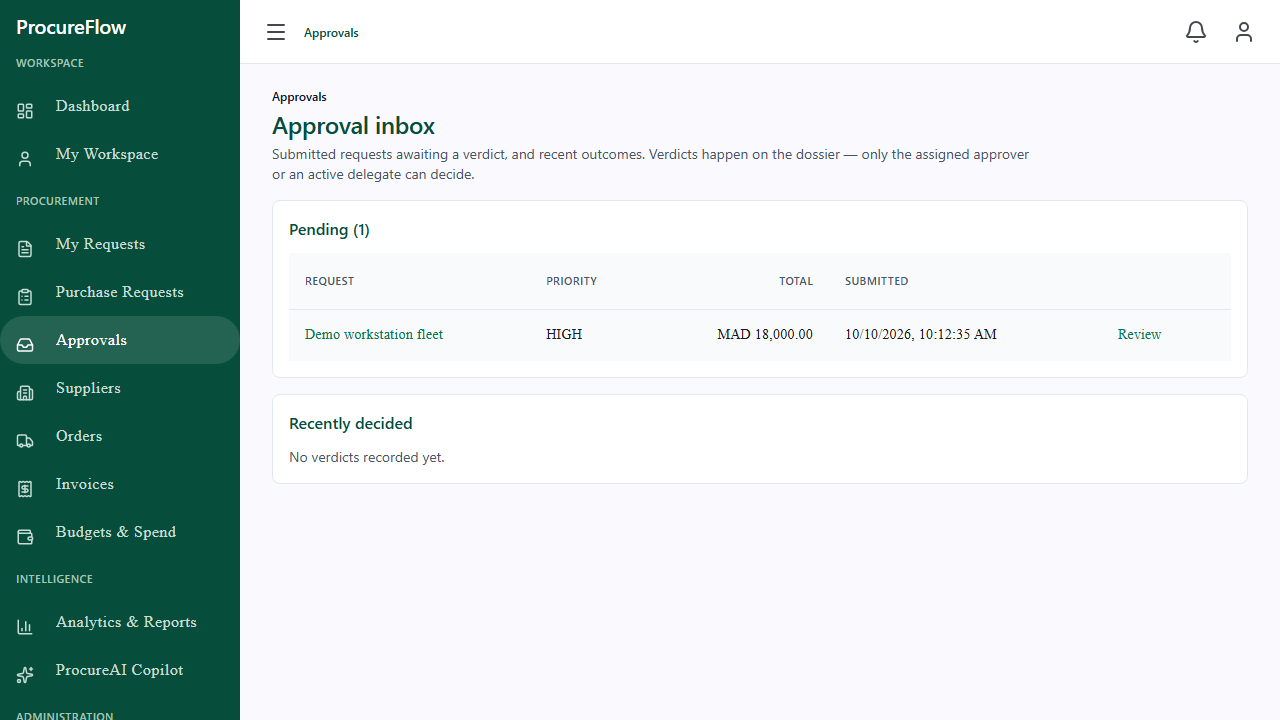
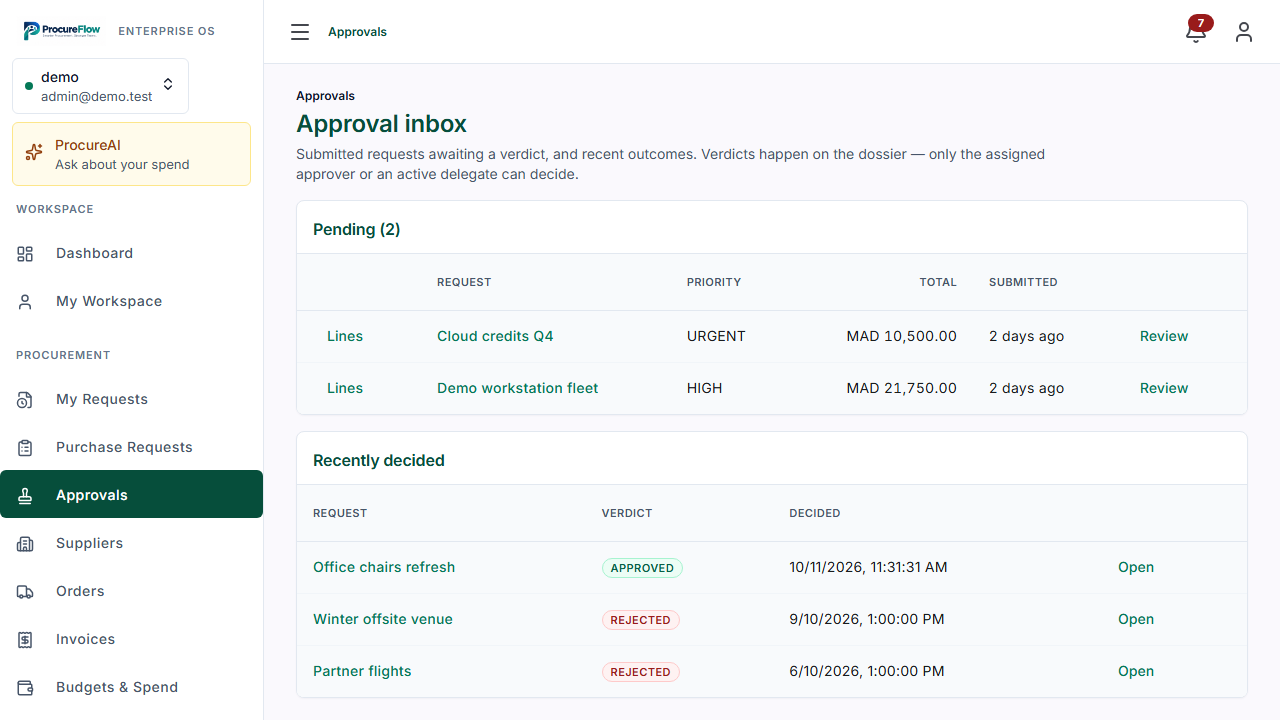
docs(demo): walkthrough gallery plus refreshed backbone screens
demo.md gains a 4-shot live gallery (login brand + dashboard/approvals/analytics with the new rail, captured against the compose demo seed). README screens table and Vitest/e2e counts synced.

diff --git a/README.md b/README.md
@@ -50,6 +50,7 @@ for the permission matrix):
 | Users & roles administration | ![users](docs/screens/07-users.png) |
 | Approval lanes, steps and delegations | ![workflows](docs/screens/08-workflows.png) |
 | ProcureAI copilot with cited answers | ![copilot](docs/screens/09-copilot.png) |
+| Sign-in with the brand panel | ![login](docs/screens/36-login-brand.png) |
 
 ## Architecture
 
@@ -155,10 +156,10 @@ every push):
   account (incl. token races),
   roles, metrics. JaCoCo floors (line 0.70 / branch 0.40) fail the build
   on regression.
-- Frontend unit: `cd frontend && npm test` (Vitest, 52 tests)
+- Frontend unit: `cd frontend && npm test` (Vitest, 54 tests)
 - Frontend E2E: `cd frontend && npx playwright install chromium && npm run test:e2e`
-  (58 runs: 29 tests × chromium + firefox — 14 stubbed critical journeys
-  incl. chart drills and document download/import, 7 auth, 6 axe, 1 smoke: request-to-approval,
+  (64 runs: 32 tests × chromium + firefox — 17 stubbed critical journeys
+  incl. chart drills and document download/import, 7 auth, 7 axe, 1 smoke: request-to-approval,
   unsaved-draft guard, budget, order, invoice, admin, analytics,
   copilot success/failure, notifications, settings, session expiry)
 - API types: regenerate after any API change and commit the result.

diff --git a/context/progress-tracker.md b/context/progress-tracker.md
@@ -22,6 +22,12 @@ removed. Evidence `docs/screens/36-login-brand.png`,
 `37-register-brand.png`, `38-login-mobile.png`. Gates: tsc 0, build 0,
 54 Vitest, e2e 32 chromium + 32 firefox green (one transient firefox
 axe flake on suppliers, clean on full re-run).
+Docs follow-up (same branch): `docs/demo.md` gains a 4-shot gallery
+(36 + refreshed 01-dashboard / 04-approvals / 06-analytics with the new
+rail, captured live against the compose demo seed); README screens table
++ test counts synced (54 Vitest, 64 e2e). Ops note: Docker Desktop was
+simply not started (service stopped, no engine pipe) — launched the app,
+stack auto-resumed, frontend image rebuilt so compose serves the brand.
 Phases 1–11 are delivered (see Completed + the merged PRs #1–#11 and open
 #12/#13): backend 113 IT + unit/ArchUnit green, frontend 24 Vitest + 18
 Playwright green, live-verified screens in `docs/screens/`. This pass:

diff --git a/docs/demo.md b/docs/demo.md
@@ -39,6 +39,16 @@ Extras: `member@demo.test` sees 9 rail entries and a 403 behind `/budgets`;
 `AI_ENABLED=true` in `.env`, otherwise an honest disabled message);
 Users & Roles creates accounts with any of the six roles.
 
+## What you'll see (live captures from the seed above)
+
+![Sign-in with the brand panel](screens/36-login-brand.png)
+
+![Minute 1 — procurement overview dashboard](screens/01-dashboard.png)
+
+![Minute 2 — approval inbox with verdicts](screens/04-approvals.png)
+
+![Minute 4 — spend analytics over server aggregates](screens/06-analytics.png)
+
 ## Reset procedure
 
 Demo data lives in the shared `pgdata` volume alongside everything else.
